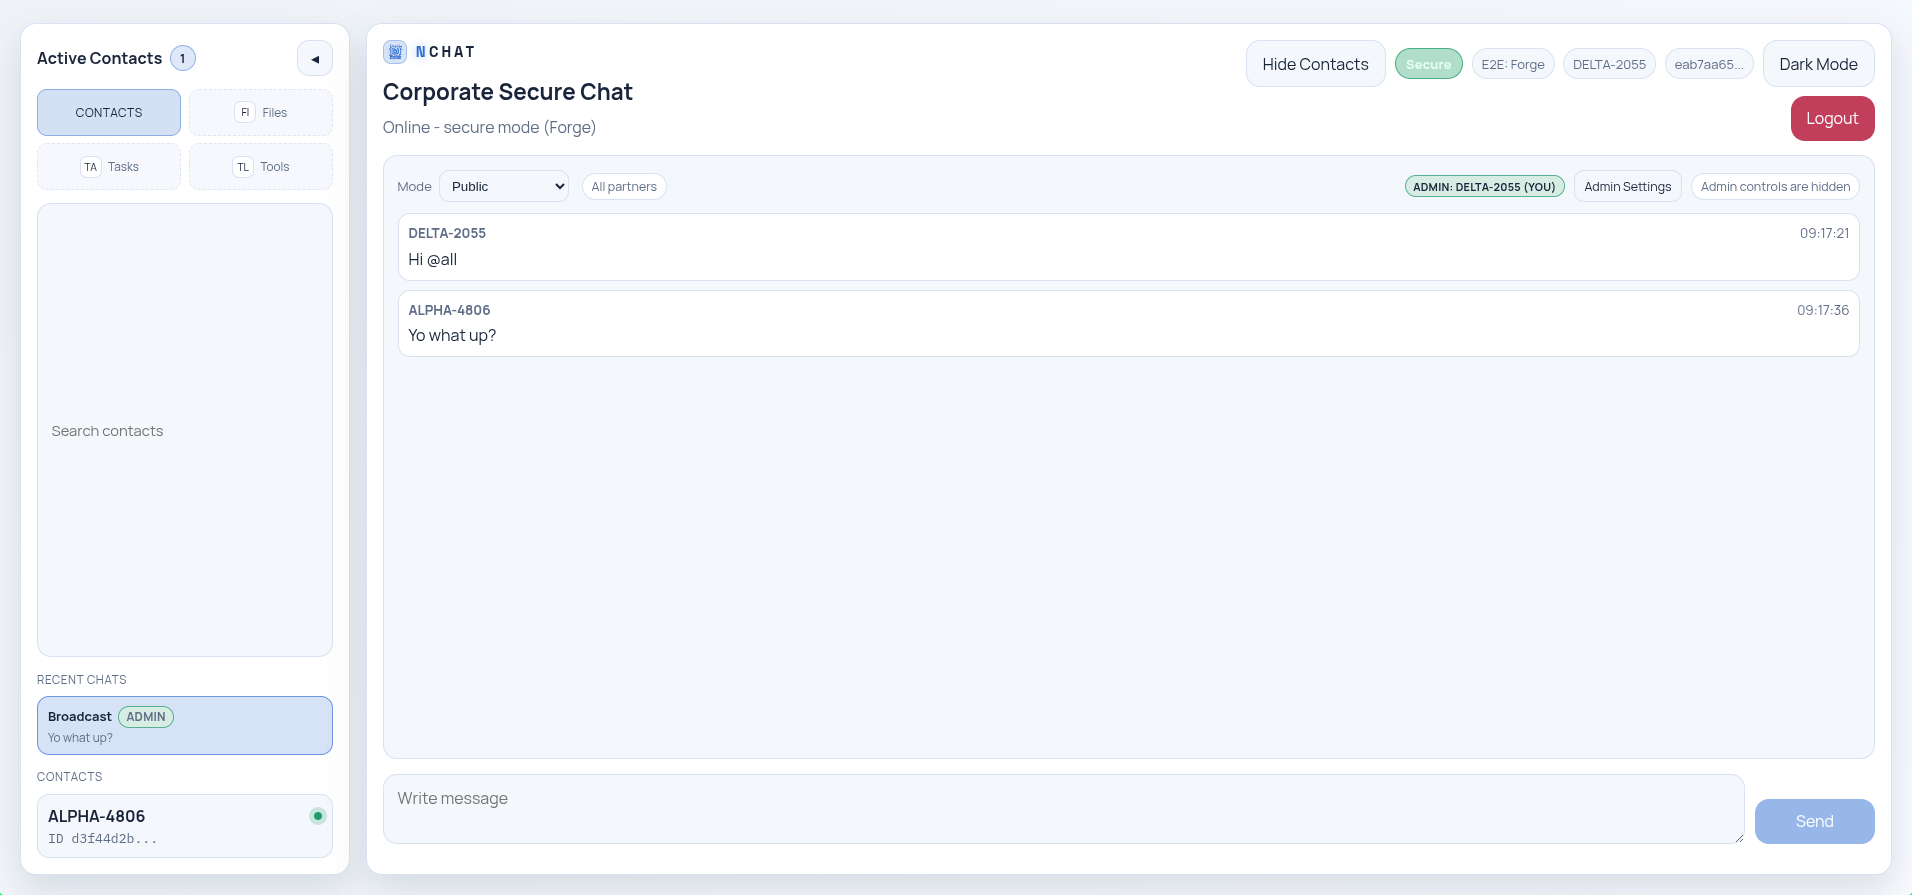
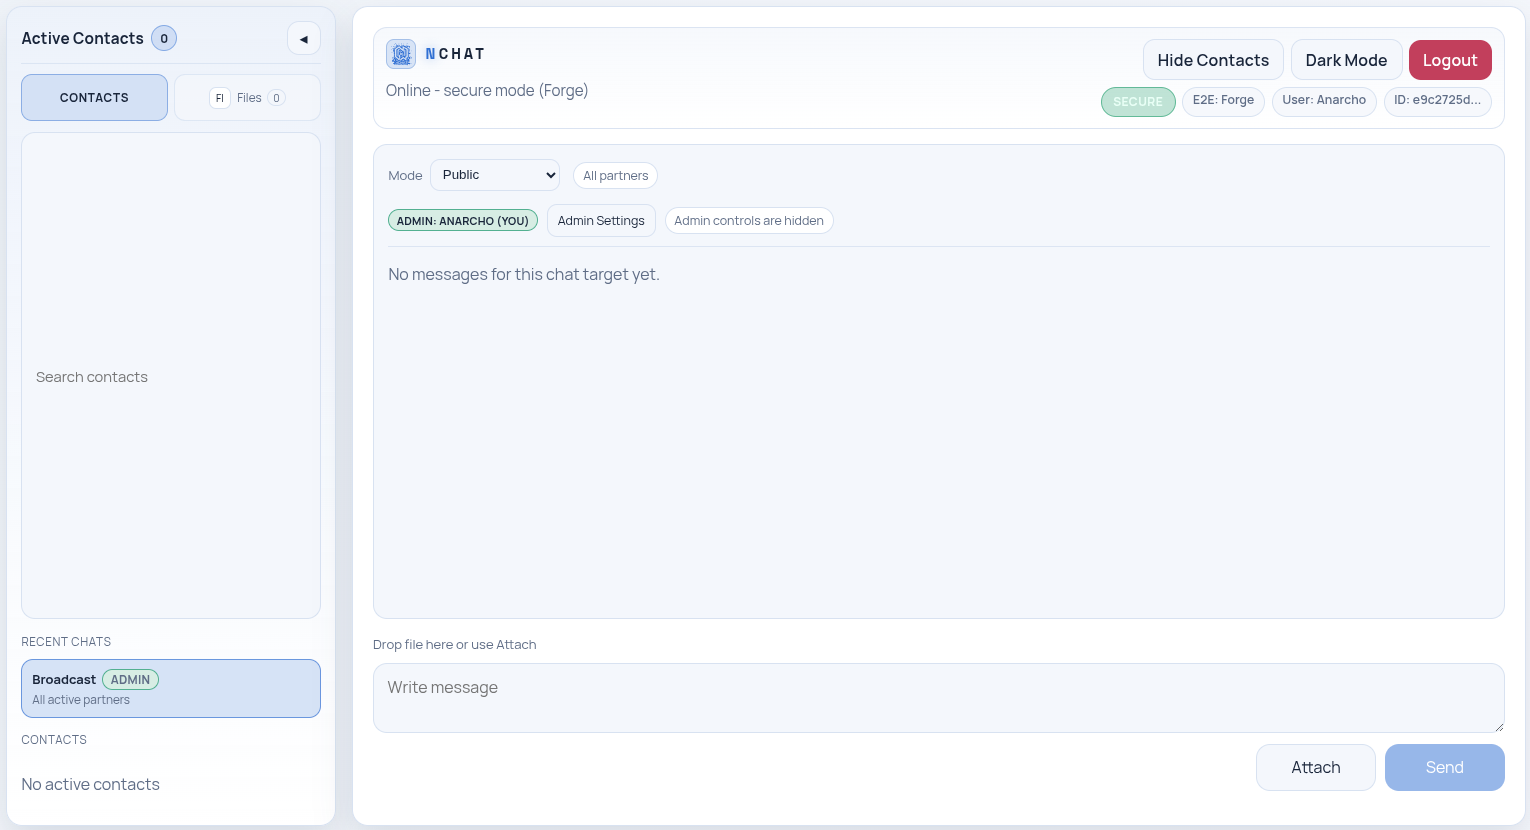
Refactor code structure for improved readability and maintainability

diff --git a/README.md b/README.md
@@ -110,6 +110,10 @@ make frontend
 
 ![Chat](screenshots/chat.png)
 
+### File Sharing
+
+![File Sharing](screenshots/fileshare.png)
+
 ### Group Chat (Dark Theme)
 
 ![Group Chat Dark Theme](screenshots/group_dark_theme.png)
